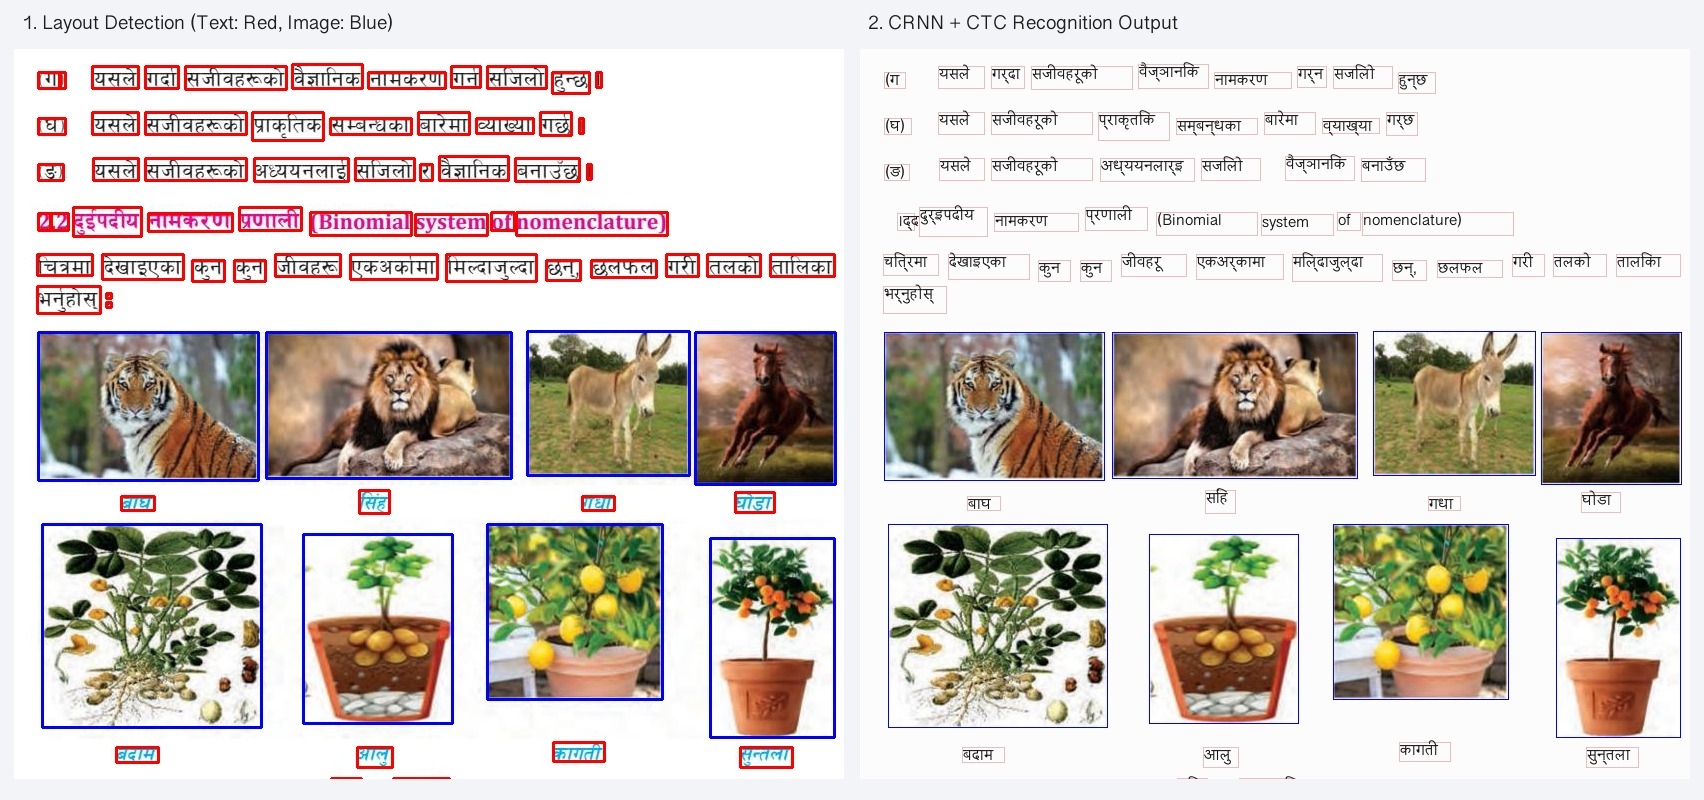
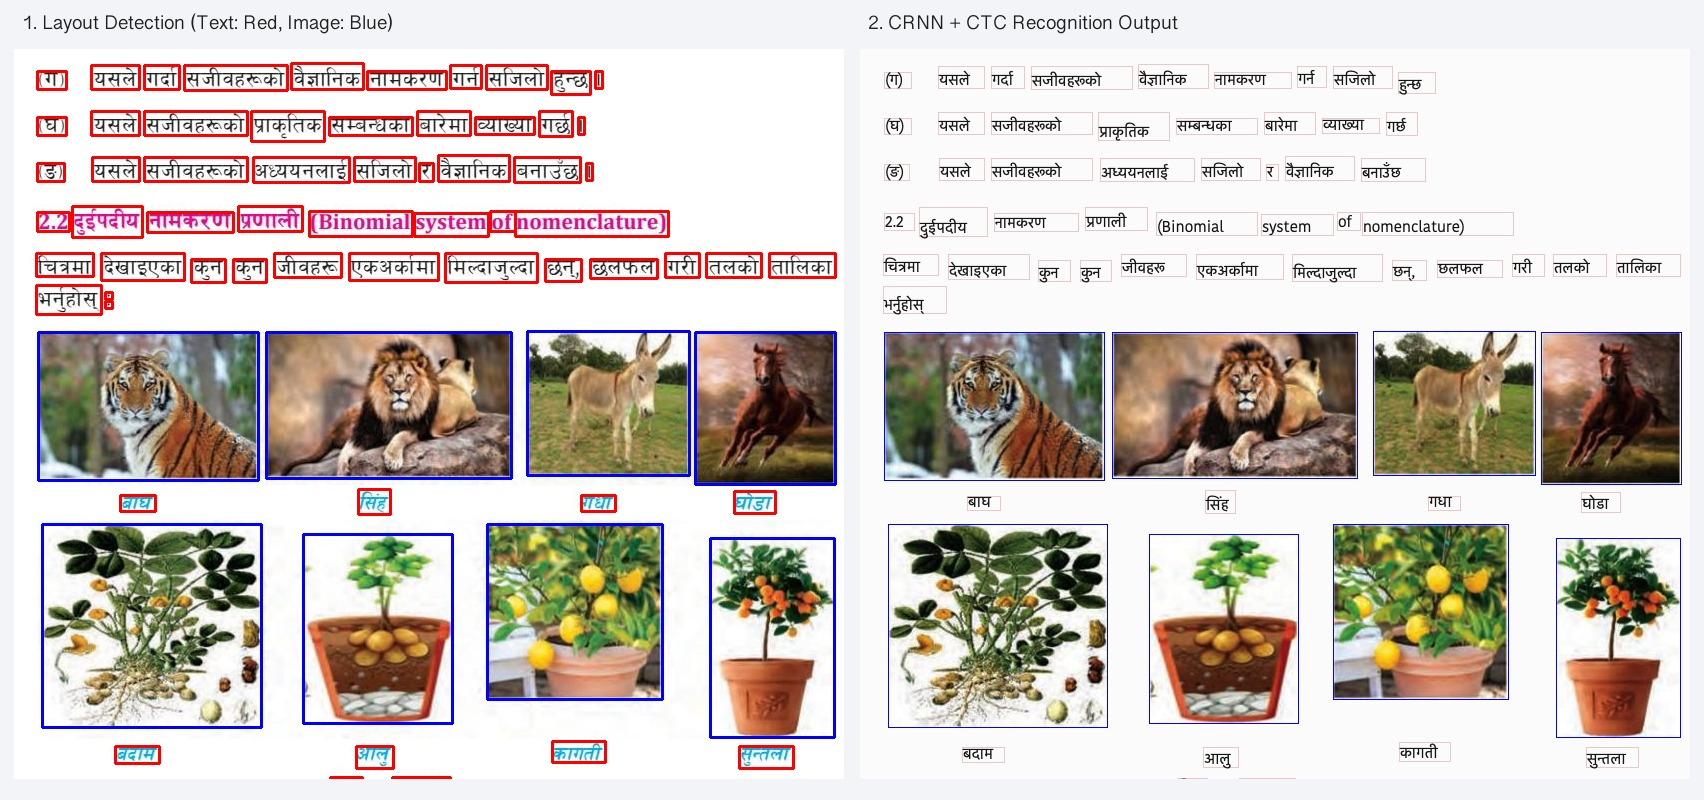
Add animated pipeline walkthrough display.gif and OpenType-shaped recognition preview

diff --git a/README.md b/README.md
@@ -2,7 +2,7 @@
 
 Document layout segmentation and bilingual Devanagari/English OCR pipeline for Nepali textbooks.
 
-<img src="assets/gr9sctrain23_detected.jpg" width="840" alt="Layout Detection and CRNN + CTC Recognition Output" />
+<img src="display.gif" width="840" alt="NepaliOCR Pipeline Walkthrough and CRNN + CTC Recognition" />
 
 ## Project Structure
 
@@ -13,6 +13,7 @@ NepaliOCR/
 │   ├── detector.py       # Iterative contour bridging, HSV region classifier, projection profiles
 │   ├── model.py          # PyTorch 4-band vertical residual CRNN + BiLSTM + CTC loss
 │   ├── recognizer.py     # Aspect-preserving crop preprocessing and greedy CTC decoding
+│   ├── postprocess.py    # Devanagari linguistic normalization and visual-to-logical ordering
 │   ├── utils.py          # Preeti-to-Unicode converter, color heuristics, 140-char vocabulary
 │   ├── io_pdf.py         # PDFReader rasterization and PDFWriter layout reconstruction
 │   └── pipeline.py       # End-to-end page image and PDF OCR pipeline
@@ -23,8 +24,9 @@ NepaliOCR/
 │   └── test_ocr.py
 ├── docs/
 │   └── index.md
-└── assets/
-    └── gr9sctrain23_detected.jpg
+├── assets/
+│   └── gr9sctrain23_detected.jpg
+└── display.gif
 ```
 
 ## Architecture
